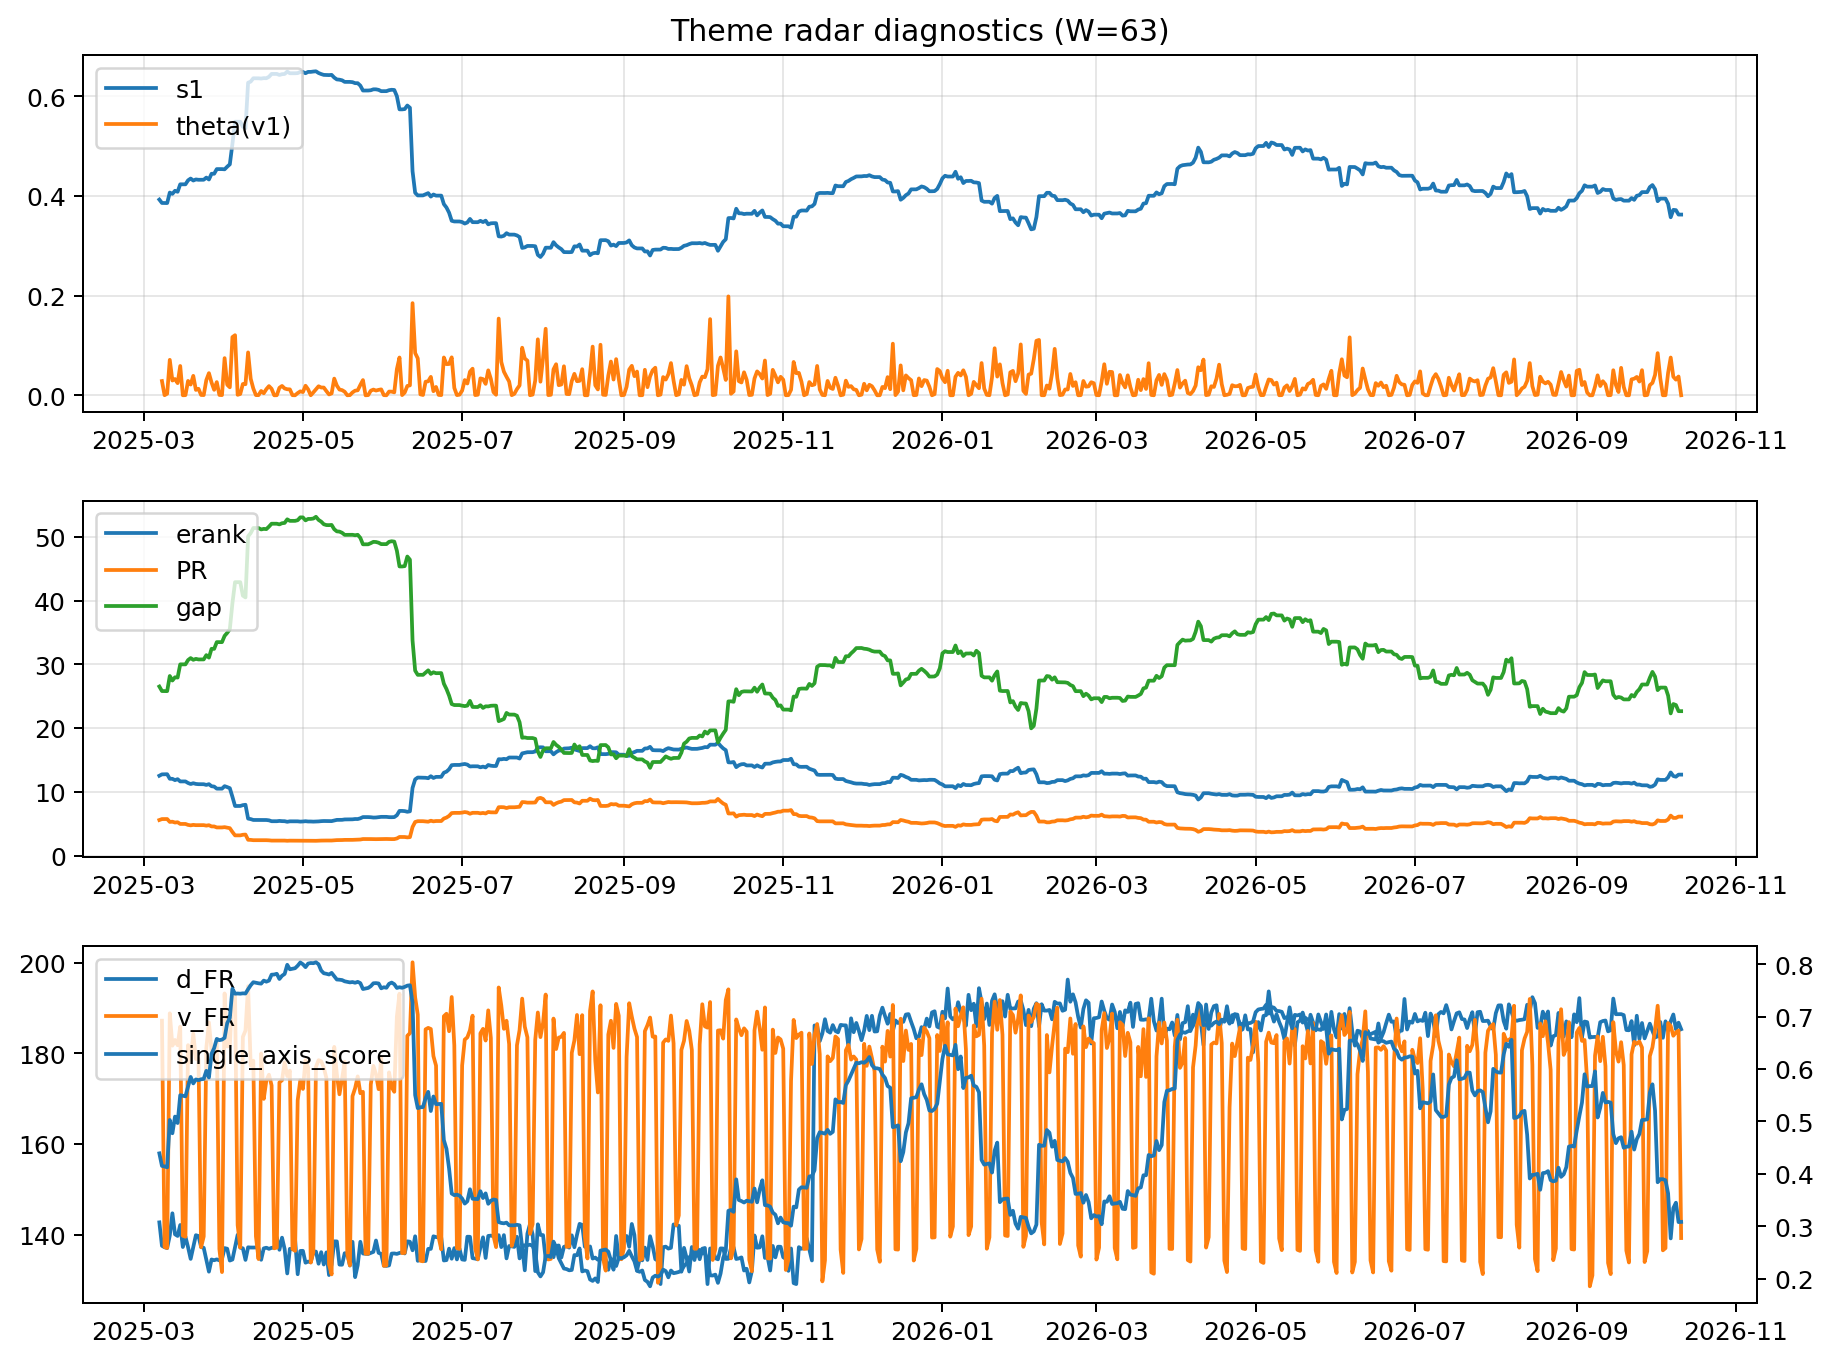
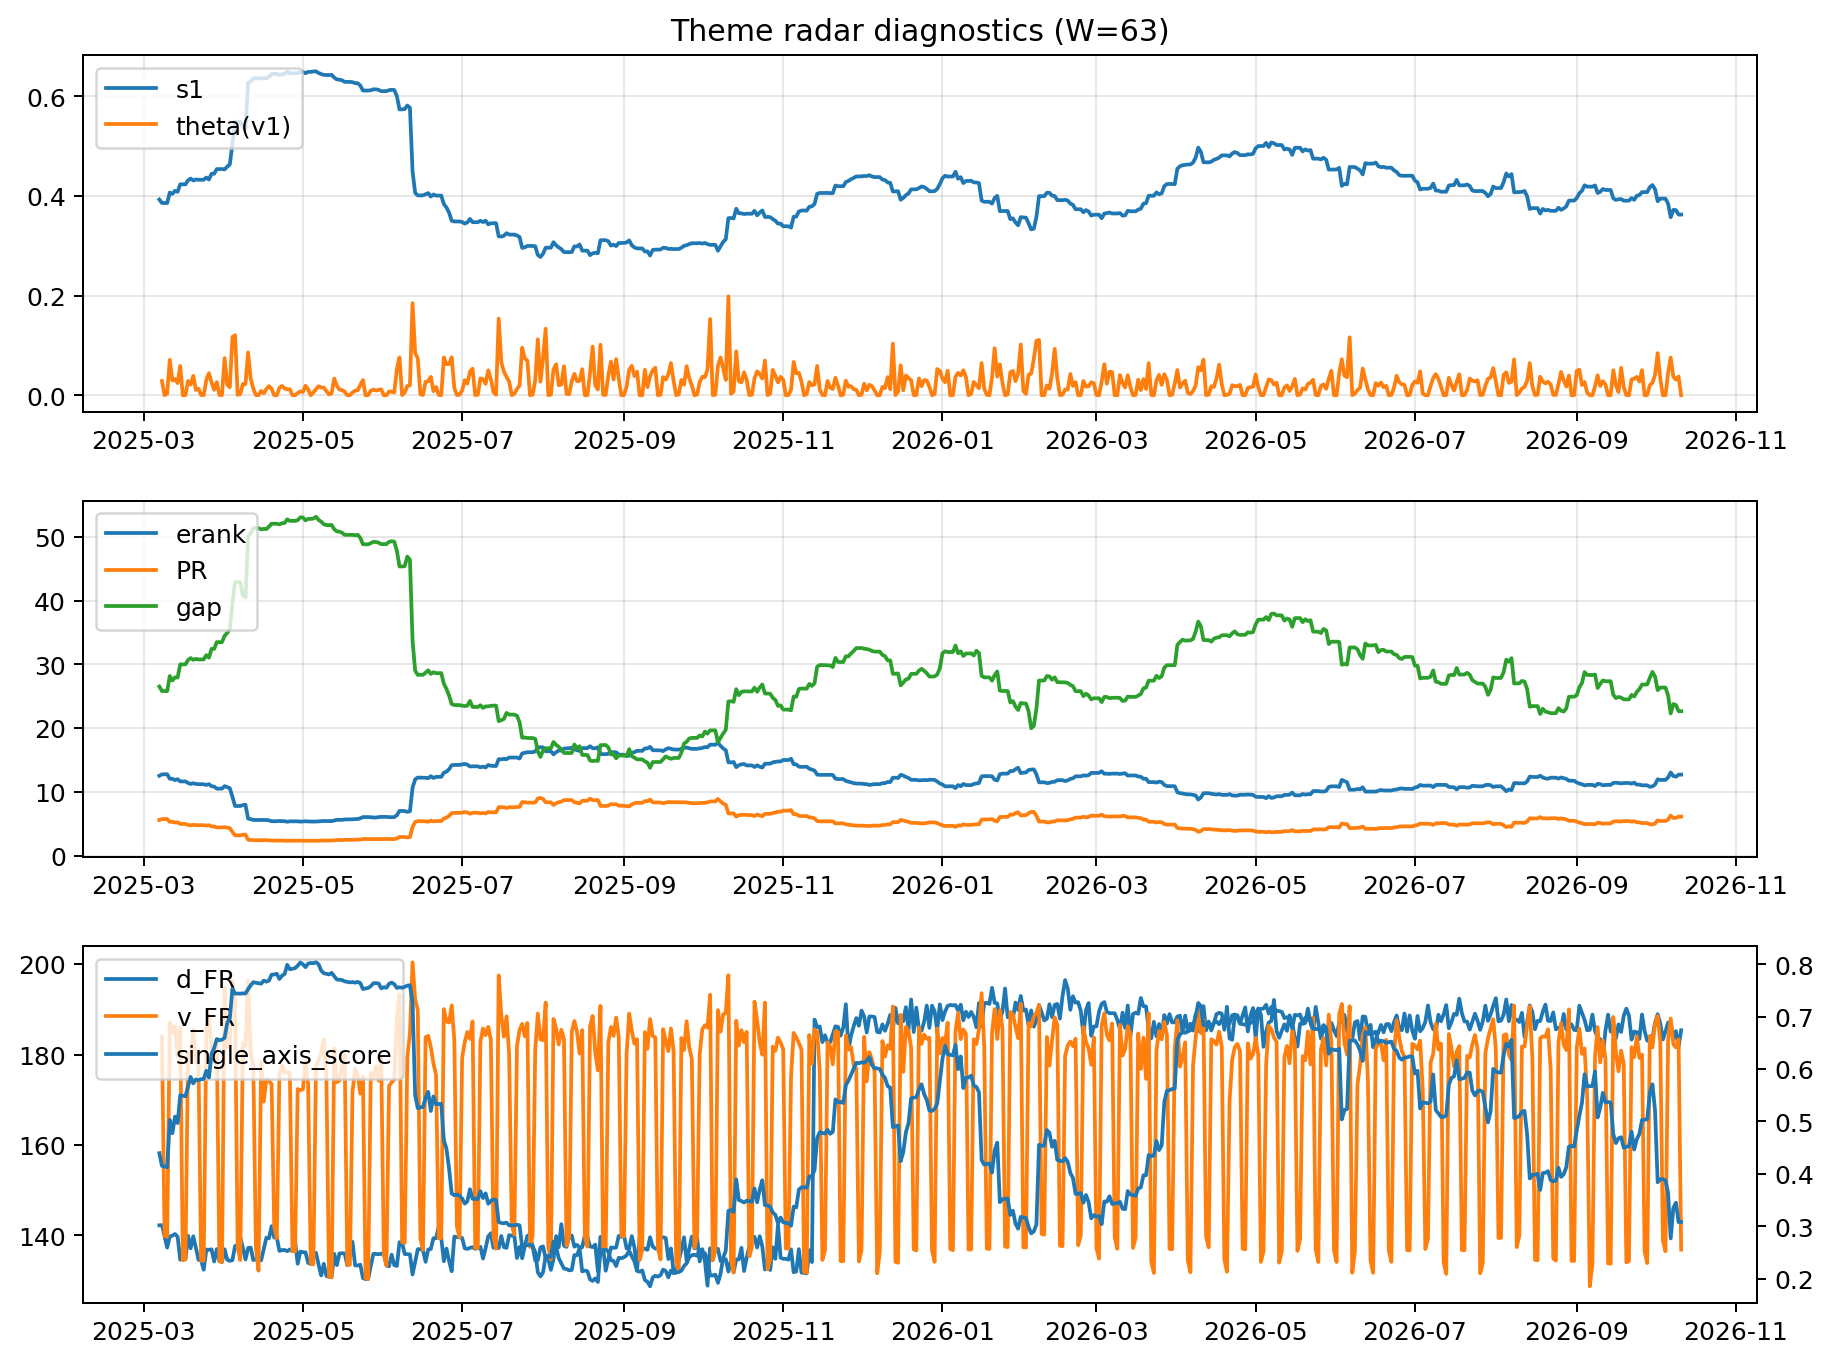
log: 2026-10-11 | sha256:75f803a6786ab1a87c5683aadc642b393ae29cc4371d48e95dbe4448b5a4b24d

Changed region(s): [[0.0933, 0.7093, 0.9334, 0.9559]]

diff --git a/logs/2026-10-11.md b/logs/2026-10-11.md
@@ -3,43 +3,43 @@
 ![diagnostic W63](../assets/diagnostic/2026-10-11_W63.png)
 
 ## Leaders (v1) — W=63
-- **Nuclear_Uranium** (0.0774438282256047)
-- Semis (0.0613893575498002)
-- Space (0.057261231596608)
+- **Nuclear_Uranium** (0.0774438259665682)
+- Semis (0.0613893632302929)
+- Space (0.057261234668905)
 
 ## Challengers — W=63
-**v2:** Semis (0.0956163877793933), Genomics_Bio (0.0835613956334505), MegaCap_AI (0.0712769808613231)
-**v3:** Software_Cloud (0.11352194567053), Cyber (0.0804883603349961), Metals (0.0653313528129866)
+**v2:** Semis (0.0956163581868514), Genomics_Bio (0.0835612912382608), MegaCap_AI (0.0712770104121464)
+**v3:** Software_Cloud (0.1135219849911862), Cyber (0.0804884028732918), Metals (0.0653313995169507)
 
 ## Migration (20D slope) — W=63
 **Top risers:**
-- axis_DataCenter_Infra: 0.0005522639694327
-- axis_Sector_RealEstate: 0.0005017471933744
-- axis_Rates: 0.0003504267572663
-- axis_Crypto: 0.000319378269792
-- axis_Metals: 0.0002837236948212
-- axis_Sector_Utilities: 0.0002404199819984
-- axis_Sector_ConsDisc: 0.000213937515283
-- axis_Sector_Comm: 0.0001793028293051
-- axis_Sector_Materials: 0.0001686143439439
-- axis_Vol: 0.0001082885658311
+- axis_DataCenter_Infra: 0.0005522640875502
+- axis_Sector_RealEstate: 0.0005017474581693
+- axis_Rates: 0.0003504343980781
+- axis_Crypto: 0.0003193781056222
+- axis_Metals: 0.0002837226864726
+- axis_Sector_Utilities: 0.0002404201647314
+- axis_Sector_ConsDisc: 0.0002139377134812
+- axis_Sector_Comm: 0.0001793031198062
+- axis_Sector_Materials: 0.0001686144966953
+- axis_Vol: 0.000108288589766
 
 **Top fallers:**
-- axis_Commodities: -0.0001378212277665
-- axis_Grid_Power: -0.0001576004183507
-- axis_Space: -0.0002188937772549
-- axis_Sector_ConsStap: -0.0002400209720733
-- axis_Cyber: -0.0002518235797109
-- axis_Genomics_Bio: -0.0002988143885383
-- axis_Quantum: -0.0003782655815049
-- axis_Nuclear_Uranium: -0.000391713641192
-- axis_Drones_Autonomy: -0.0004016428492749
-- axis_Semis: -0.0004211567050804
+- axis_Commodities: -0.0001378206847004
+- axis_Grid_Power: -0.0001576003800073
+- axis_Space: -0.0002188937661073
+- axis_Sector_ConsStap: -0.0002400211372858
+- axis_Cyber: -0.0002518234718449
+- axis_Genomics_Bio: -0.0002988146411911
+- axis_Quantum: -0.0003782660837277
+- axis_Nuclear_Uranium: -0.0003917140726224
+- axis_Drones_Autonomy: -0.0004016424616387
+- axis_Semis: -0.0004211573320156
 
 ## Risk line (W=63)
-- s1: 0.3625072726512964
-- theta_v1: 0.000100565212346
-- v_FR: 139.26134588623546
+- s1: 0.362507215215191
+- theta_v1: 0.0001005652090341
+- v_FR: 136.8391984034784
 - single_axis_score: 0.3082191780821918
 
 ## Interpretation
@@ -48,7 +48,7 @@
 - Action: Tomorrow watchlist: DataCenter_Infra, Sector_RealEstate, Rates, Crypto, Metals + v2_top1=Semis
 - Action: Hedge note: normal correlation stability.
 
-- Percentiles (W=63 history): vfr_pct=0.24, theta_pct=0.07, s1_pct=0.25, score_pct=0.18.
+- Percentiles (W=63 history): vfr_pct=0.16, theta_pct=0.07, s1_pct=0.25, score_pct=0.18.
 
 ---
[2 lines of base64/hex data omitted]
